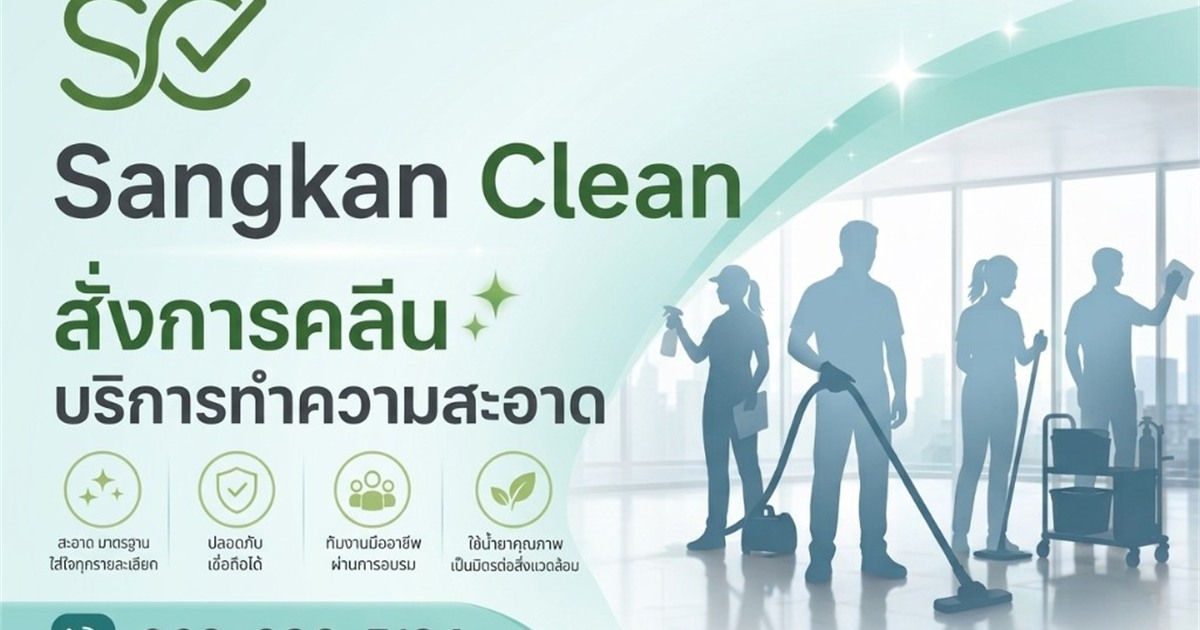
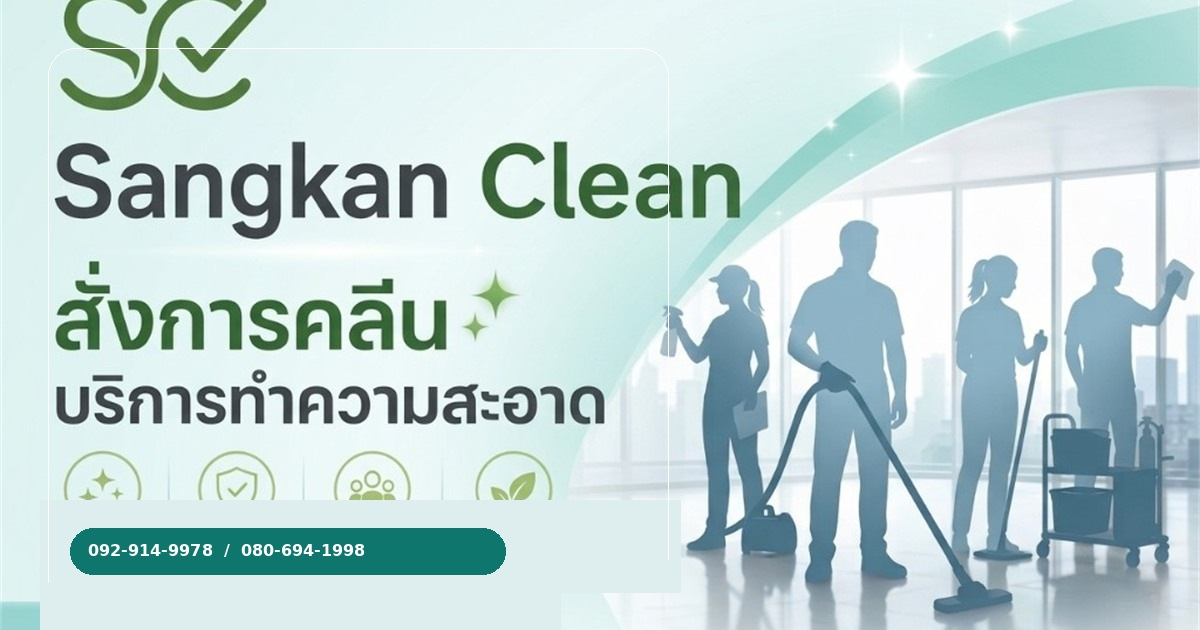
Prevent retired hotline 063-686-5134 from returning
Regenerate the share image so it no longer shows the old number, pin
current phones in blog/upgrade-bot prompts, and scrub 063-686-5134 if
AI output tries to write it back.

Changed region(s): [[0.0308, 0.7841, 0.4933, 1.0], [0.4933, 0.8143, 0.5242, 0.8444]]

diff --git a/index.html b/index.html
@@ -33,12 +33,12 @@
     <meta name="twitter:description" content="สั่งการคลีน บริการทำความสะอาด สั่งได้ดั่งใจ Big Cleaning ทำความสะอาดโรงงาน อาคาร บ้าน คอนโด ออฟฟิศ">
 
     <!-- OG Image สำหรับแชร์บน Facebook/LINE -->
-    <meta property="og:image" content="https://www.sangkanclean.com/og-image.jpg?v=20260824">
+    <meta property="og:image" content="https://www.sangkanclean.com/og-image.jpg?v=20260915">
     <meta property="og:image:width" content="1200">
     <meta property="og:image:height" content="630">
     <meta property="og:image:type" content="image/jpeg">
     <meta property="og:image:alt" content="Sangkan Clean สั่งการคลีน บริการทำความสะอาดมืออาชีพ">
-    <meta name="twitter:image" content="https://www.sangkanclean.com/og-image.jpg?v=20260824">
+    <meta name="twitter:image" content="https://www.sangkanclean.com/og-image.jpg?v=20260915">
 
     <!-- Canonical URL -->
     <link rel="canonical" href="https://www.sangkanclean.com/">

diff --git a/landing-maid.html b/landing-maid.html
@@ -12,11 +12,11 @@
     <meta property="og:title" content="บริการจัดหาแม่บ้านประจำ สำนักงาน คอนโด อาคาร | Sangkan Clean">
     <meta property="og:description" content="บริการจัดหาแม่บ้านประจำมืออาชีพ สำหรับสำนักงาน คอนโด อาคาร ประสบการณ์กว่า 30 ปี">
     <meta property="og:url" content="https://www.sangkanclean.com/landing-maid.html">
-    <meta property="og:image" content="https://www.sangkanclean.com/og-image.jpg?v=20260824">
+    <meta property="og:image" content="https://www.sangkanclean.com/og-image.jpg?v=20260915">
     <meta property="og:image:width" content="1200">
     <meta property="og:image:height" content="630">
     <meta property="og:image:type" content="image/jpeg">
-    <meta name="twitter:image" content="https://www.sangkanclean.com/og-image.jpg?v=20260824">
+    <meta name="twitter:image" content="https://www.sangkanclean.com/og-image.jpg?v=20260915">
     <script type="application/ld+json">
     {
       "@context": "https://schema.org",

diff --git a/landing-bigcleaning.html b/landing-bigcleaning.html
@@ -11,11 +11,11 @@
     <link rel="canonical" href="https://www.sangkanclean.com/landing-bigcleaning.html">
     <meta property="og:title" content="บริการ Big Cleaning ทำความสะอาดครั้งใหญ่ | Sangkan Clean">
     <meta property="og:description" content="ทำความสะอาดครั้งใหญ่ ระดับมืออาชีพ สำหรับโรงงาน สำนักงาน อาคาร ราคาเริ่มต้น 5,500 บาท">
-    <meta property="og:image" content="https://www.sangkanclean.com/og-image.jpg?v=20260824">
+    <meta property="og:image" content="https://www.sangkanclean.com/og-image.jpg?v=20260915">
     <meta property="og:image:width" content="1200">
     <meta property="og:image:height" content="630">
     <meta property="og:image:type" content="image/jpeg">
-    <meta name="twitter:image" content="https://www.sangkanclean.com/og-image.jpg?v=20260824">
+    <meta name="twitter:image" content="https://www.sangkanclean.com/og-image.jpg?v=20260915">
     <script type="application/ld+json">
     {
       "@context": "https://schema.org",

diff --git a/landing-softcleaning.html b/landing-softcleaning.html
@@ -14,9 +14,9 @@
     <meta property="og:title" content="บริการ Soft Cleaning ทำความสะอาดเฉพาะจุด | Sangkan Clean">
     <meta property="og:description" content="Soft Cleaning ดูแลความสะอาดประจำ อ่อนโยนกับพื้นผิว เหมาะสำนักงาน คอนโด ร้านค้า ราคาเริ่มต้น 3,500 บาท">
     <meta property="og:url" content="https://www.sangkanclean.com/landing-softcleaning.html">
-    <meta property="og:image" content="https://www.sangkanclean.com/og-image.jpg?v=20260824">
+    <meta property="og:image" content="https://www.sangkanclean.com/og-image.jpg?v=20260915">
     <meta name="twitter:card" content="summary_large_image">
-    <meta name="twitter:image" content="https://www.sangkanclean.com/og-image.jpg?v=20260824">
+    <meta name="twitter:image" content="https://www.sangkanclean.com/og-image.jpg?v=20260915">
     <script type="application/ld+json">
     {
       "@context": "https://schema.org",

diff --git a/blog.html b/blog.html
@@ -12,11 +12,11 @@
     <meta property="og:title" content="บทความ | Sangkan Clean">
     <meta property="og:description" content="บทความความรู้เกี่ยวกับการทำความสะอาด เคล็ดลับ และคำแนะนำจากผู้เชี่ยวชาญ">
     <meta property="og:url" content="https://www.sangkanclean.com/blog.html">
-    <meta property="og:image" content="https://www.sangkanclean.com/og-image.jpg?v=20260824">
+    <meta property="og:image" content="https://www.sangkanclean.com/og-image.jpg?v=20260915">
     <meta property="og:image:width" content="1200">
     <meta property="og:image:height" content="630">
     <meta property="og:image:type" content="image/jpeg">
-    <meta name="twitter:image" content="https://www.sangkanclean.com/og-image.jpg?v=20260824">
+    <meta name="twitter:image" content="https://www.sangkanclean.com/og-image.jpg?v=20260915">
     <meta name="twitter:card" content="summary_large_image">
     <script type="application/ld+json">
     {

diff --git a/landing-glass.html b/landing-glass.html
@@ -14,9 +14,9 @@
     <meta property="og:title" content="บริการเช็ดกระจกอาคารสูง | Sangkan Clean">
     <meta property="og:description" content="เช็ดกระจกอาคารสูงด้วยอุปกรณ์มาตรฐานความปลอดภัย ทีมงานมืออาชีพ ครอบคลุมกรุงเทพและปริมณฑล">
     <meta property="og:url" content="https://www.sangkanclean.com/landing-glass.html">
-    <meta property="og:image" content="https://www.sangkanclean.com/og-image.jpg?v=20260824">
+    <meta property="og:image" content="https://www.sangkanclean.com/og-image.jpg?v=20260915">
     <meta name="twitter:card" content="summary_large_image">
-    <meta name="twitter:image" content="https://www.sangkanclean.com/og-image.jpg?v=20260824">
+    <meta name="twitter:image" content="https://www.sangkanclean.com/og-image.jpg?v=20260915">
     <script type="application/ld+json">
     {
       "@context": "https://schema.org",

diff --git a/landing-carpet.html b/landing-carpet.html
@@ -14,9 +14,9 @@
     <meta property="og:title" content="บริการซักพรม โซฟา ผ้าม่าน | Sangkan Clean">
     <meta property="og:description" content="ซักแห้งพรม โซฟา เก้าอี้ ผ้าม่าน ขจัดคราบ กลิ่นอับ ไรฝุ่น อย่างล้ำลึก ราคาเริ่มต้น 800 บาท">
     <meta property="og:url" content="https://www.sangkanclean.com/landing-carpet.html">
-    <meta property="og:image" content="https://www.sangkanclean.com/og-image.jpg?v=20260824">
+    <meta property="og:image" content="https://www.sangkanclean.com/og-image.jpg?v=20260915">
     <meta name="twitter:card" content="summary_large_image">
-    <meta name="twitter:image" content="https://www.sangkanclean.com/og-image.jpg?v=20260824">
+    <meta name="twitter:image" content="https://www.sangkanclean.com/og-image.jpg?v=20260915">
     <script type="application/ld+json">
     {
       "@context": "https://schema.org",

diff --git a/landing-ozone.html b/landing-ozone.html
@@ -14,9 +14,9 @@
     <meta property="og:title" content="บริการอบโอโซนฆ่าเชื้อ | Sangkan Clean">
     <meta property="og:description" content="อบโอโซนฆ่าเชื้อโรค แบคทีเรีย ไวรัส กำจัดกลิ่นอับ มาตรฐานปลอดภัย ราคาเริ่มต้น 1,200 บาท">
     <meta property="og:url" content="https://www.sangkanclean.com/landing-ozone.html">
-    <meta property="og:image" content="https://www.sangkanclean.com/og-image.jpg?v=20260824">
+    <meta property="og:image" content="https://www.sangkanclean.com/og-image.jpg?v=20260915">
     <meta name="twitter:card" content="summary_large_image">
-    <meta name="twitter:image" content="https://www.sangkanclean.com/og-image.jpg?v=20260824">
+    <meta name="twitter:image" content="https://www.sangkanclean.com/og-image.jpg?v=20260915">
     <script type="application/ld+json">
     {
       "@context": "https://schema.org",

diff --git a/areas/local-bangkok.html b/areas/local-bangkok.html
@@ -12,7 +12,7 @@
     <meta property="og:title" content="บริการทำความสะอาด กรุงเทพมหานคร">
     <meta property="og:description" content="Sangkan Clean รับทำความสะอาด Big Cleaning และจัดหาแม่บ้านประจำในกรุงเทพฯ ทุกเขต สุขุมวิท สีลม บางนา ลาดพร้าว รามอินทรา">
     <meta property="og:url" content="https://www.sangkanclean.com/areas/local-bangkok.html">
-    <meta property="og:image" content="https://www.sangkanclean.com/og-image.jpg?v=20260824">
+    <meta property="og:image" content="https://www.sangkanclean.com/og-image.jpg?v=20260915">
     <meta name="twitter:card" content="summary_large_image">
     <script type="application/ld+json">
     {

diff --git a/areas/local-nonthaburi.html b/areas/local-nonthaburi.html
@@ -12,7 +12,7 @@
     <meta property="og:title" content="บริการทำความสะอาด นนทบุรี">
     <meta property="og:description" content="บริการทำความสะอาดโรงงาน ออฟฟิศ คอนโด และแม่บ้านประจำในนนทบุรี ครอบคลุมเมืองนนทบุรี ปากเกร็ด บางใหญ่">
     <meta property="og:url" content="https://www.sangkanclean.com/areas/local-nonthaburi.html">
-    <meta property="og:image" content="https://www.sangkanclean.com/og-image.jpg?v=20260824">
+    <meta property="og:image" content="https://www.sangkanclean.com/og-image.jpg?v=20260915">
     <meta name="twitter:card" content="summary_large_image">
     <script type="application/ld+json">
     {

diff --git a/areas/local-pathum-thani.html b/areas/local-pathum-thani.html
@@ -12,7 +12,7 @@
     <meta property="og:title" content="บริการทำความสะอาด ปทุมธานี">
     <meta property="og:description" content="บริการทำความสะอาดครบวงจรในปทุมธานี รังสิต ลำลูกกา คลองหลวง โรงงานและออฟฟิศ">
     <meta property="og:url" content="https://www.sangkanclean.com/areas/local-pathum-thani.html">
-    <meta property="og:image" content="https://www.sangkanclean.com/og-image.jpg?v=20260824">
+    <meta property="og:image" content="https://www.sangkanclean.com/og-image.jpg?v=20260915">
     <meta name="twitter:card" content="summary_large_image">
     <script type="application/ld+json">
     {

diff --git a/areas/local-samut-prakan.html b/areas/local-samut-prakan.html
@@ -12,7 +12,7 @@
     <meta property="og:title" content="บริการทำความสะอาด สมุทรปราการ">
     <meta property="og:description" content="รับทำความสะอาดโรงงาน โกดัง ออฟฟิศ และ Big Cleaning ในสมุทรปราการ บางพลี พระประแดง">
     <meta property="og:url" content="https://www.sangkanclean.com/areas/local-samut-prakan.html">
-    <meta property="og:image" content="https://www.sangkanclean.com/og-image.jpg?v=20260824">
+    <meta property="og:image" content="https://www.sangkanclean.com/og-image.jpg?v=20260915">
     <meta name="twitter:card" content="summary_large_image">
     <script type="application/ld+json">
     {
